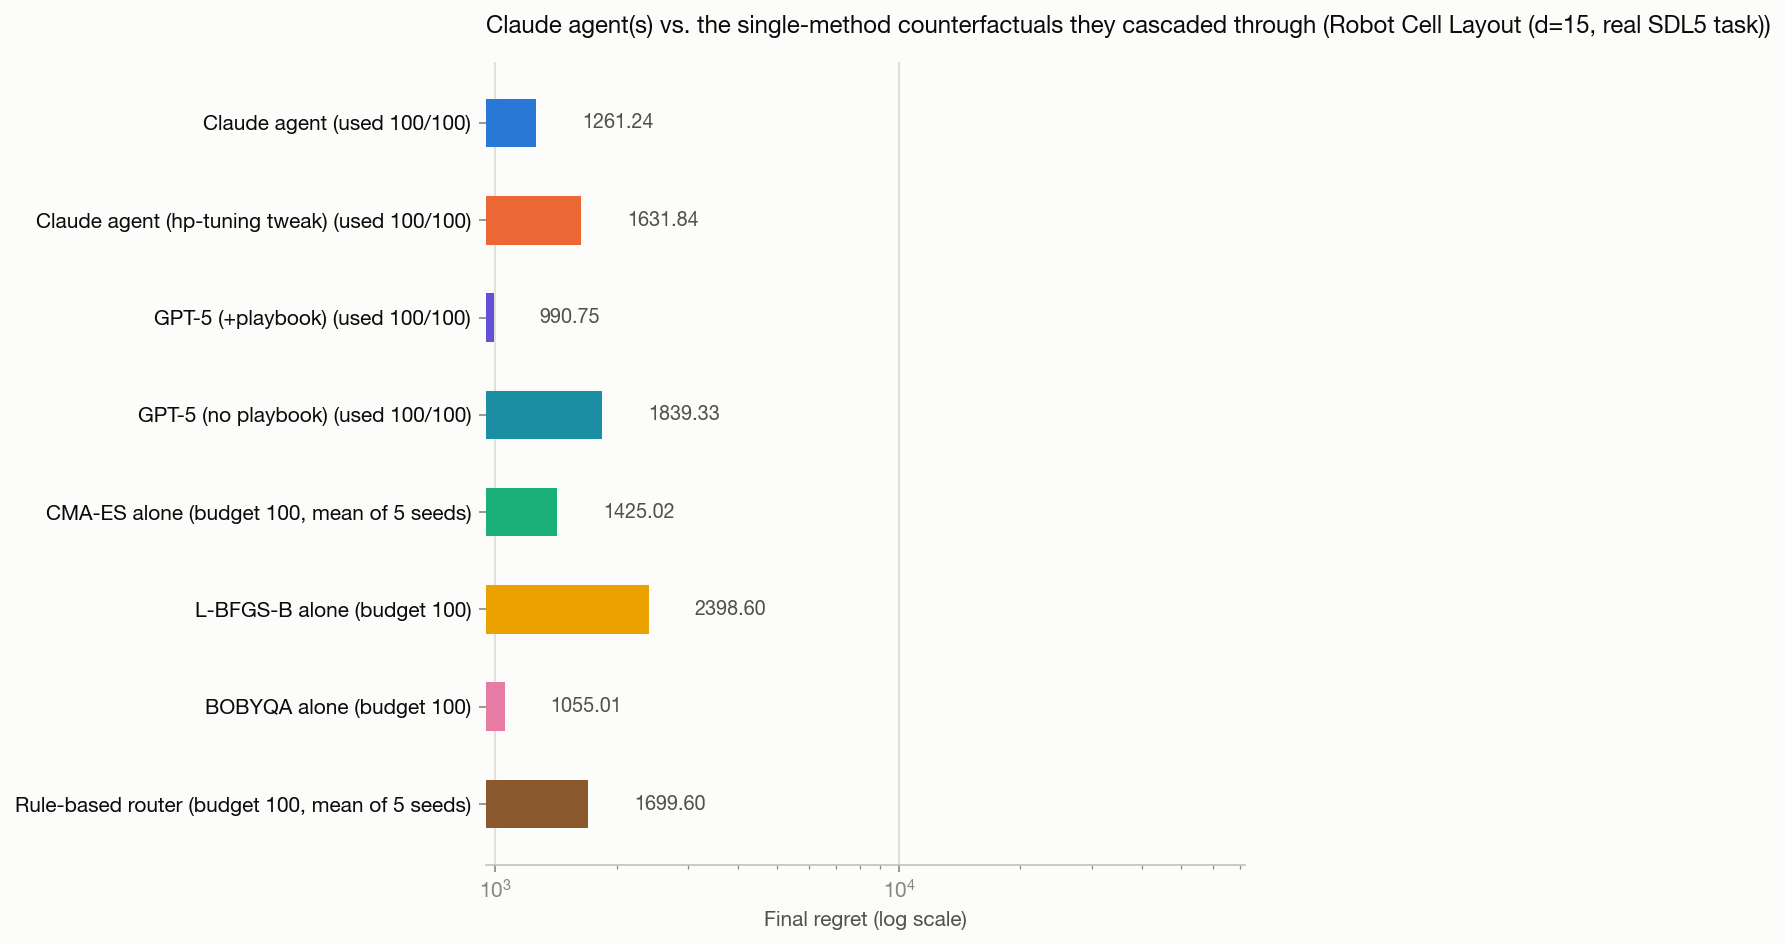
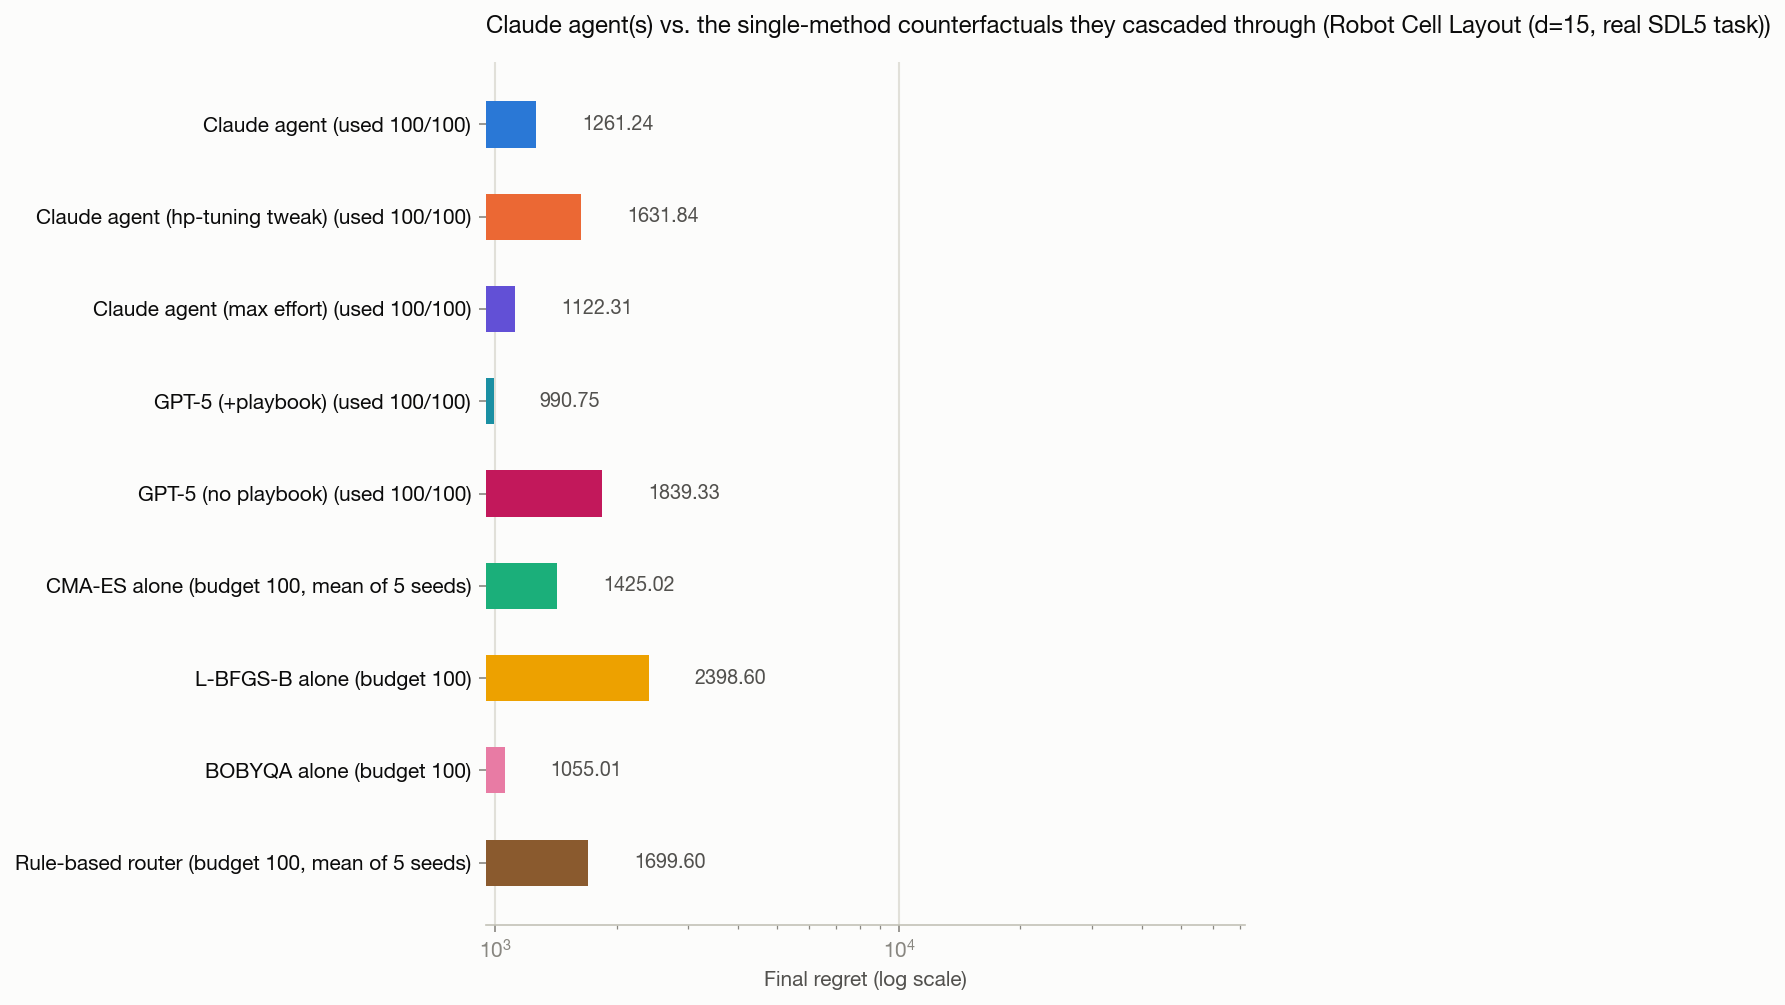
Add a third Claude variant (max reasoning effort) on robot_cell_layout
Since master's canonical isolated-CLI blind-runner pipeline isn't usable
in this environment (no claude/codex CLI binary, no .agent-venv, and
the task isn't registered in master's own registry.py), ran another
Agent-tool subagent instead, at max effort, as the closest available
substitute. Result (y=1208.5) beats both prior Claude variants but
still trails GPT-5 (+playbook). Also bumped AGENT_COLORS to 5 entries
in plot_agent_vs_baselines.py -- 5 agent lines now collided down to 4
colors, silently reusing the first color for the last one.

diff --git a/main/scripts/plot_agent_vs_baselines.py b/main/scripts/plot_agent_vs_baselines.py
@@ -67,7 +67,7 @@ SINGLE = ["bobyqa", "nelder_mead", "lbfgsb"]
 BROWN = "#8a5a2e"
 
 # Agent-line colors, in the order agents are given on the command line.
-AGENT_COLORS = [BLUE, ORANGE, VIOLET, "#1a8fa3"]
+AGENT_COLORS = [BLUE, ORANGE, VIOLET, "#1a8fa3", "#c2185b"]
 
 baseline_style = {
     "random_search": dict(color=AQUA, linestyle="-"),

diff --git a/SDL_Real_Problem/03_robot_cell_layout/results/robot_cell_layout_d15/claude_agent_run_max_effort/roadmap_initial.md b/SDL_Real_Problem/03_robot_cell_layout/results/robot_cell_layout_d15/claude_agent_run_max_effort/roadmap_initial.md
@@ -1,0 +1,153 @@
+# Roadmap — Robot Cell Layout Optimization (15D, budget = 100)
+
+## Problem summary
+
+- 15-dimensional real engineering objective: lay out a robot cell (UR3e arm
+  base pose, CNC machine position, IK branch choices) to minimize mixer-
+  loading cycle time (seconds), from a calibrated kinematic model with
+  collision checking. Direction: **minimize**.
+- Coordinates 0-8: continuous geometric/kinematic parameters (base
+  position/yaw, CNC position, lid-open angle, tilt angles, pick azimuth).
+  Bounds read from `harness.bounds` after construction (zero evaluations
+  spent): e.g. `[-0.316, 0.357]`, `[-0.7, 0.265]`, `[-pi, pi]`, `[-0.08,
+  0.121]`, `[-0.96, 0.018]`, `[0.349, 1.222]`, `[-0.524, 0.524]` (x2),
+  `[0, 2*pi]`.
+- Coordinates 9-14: 6 IK-branch flags, bounds confirmed exactly `[0, 1]`
+  each. The model reads each via a `>= 0.5` threshold — a pure boolean
+  switch with **no gradient/variation within either side** of that
+  threshold.
+- Deterministic (`harness.noisy == False`), no observation noise.
+- Budget: 100 `evaluate()` calls total, hard limit enforced by the harness.
+- Known landscape hazards (stated in the task): real discontinuities at
+  every IK-branch threshold crossing, plus heavily-penalized dead zones
+  wherever the layout is geometrically infeasible or the arm/CNC collide.
+
+## Key structural observation driving the plan
+
+Because coordinates 9-14 only ever affect the objective through a `>=0.5`
+threshold, the 6 of them jointly define a combinatorial space of exactly
+`2^6 = 64` discrete "IK-branch combinations" — the *exact* value within a
+side of 0.5 carries no information. Treating all 15 coordinates as jointly
+continuous (feeding them straight into CMA-ES or a GP) would waste budget
+letting a continuous method "discover" hard step functions it is not built
+to model well, and 100 evaluations is already far too few to afford that.
+So the plan explicitly splits the problem: (a) a combinatorial search over
+the 64 flag-combinations, crossed with (b) continuous optimization over the
+9 truly continuous coordinates, conditional on a chosen combination.
+
+100 evaluations for a 15-dim space with real collision/feasibility cliffs
+is a very tight budget: the standard GP-BO rule of thumb wants roughly
+10x dim = 150; classic DE's own standard population size alone is
+10 x dim = 150 (already over budget, even before any generations run);
+TuRBO's initial design alone is 2 x dim = 30. The plan below is
+deliberately front-loaded toward a cheap global scan and a sample-efficient
+population method operating on a *reduced* 9-dim subspace, rather than
+relying on any single method to explore all 15 dims from a cold start.
+
+## Planned methods and budget split (100 total)
+
+**Phase 1 — `combo_scan_sobol` (32 evaluations).**
+Stratified global scan: draw 32 distinct IK-branch combinations uniformly
+at random without replacement out of the 64 possible (fixed seed), paired
+one-to-one with 32 quasi-random Sobol' points (via this project's
+`SobolSearch`) over the 9 continuous coordinates. Evaluate all 32 pairs.
+32 is used (a power of two) for Sobol' balance, and covers half of the
+64-combination space. Purpose: a first, cheap read on (i) which
+flag-combinations tend to be more/less favorable, and (ii) roughly where
+the feasible/good continuous region sits — before committing the bulk of
+the budget to any one combination.
+
+**Phase 2 — `cma_es_comboA` / `cma_es_comboB` (48 evaluations).**
+Take the best-performing combination from Phase 1 ("combo A") and the best
+*distinct* combination among the rest ("combo B"). Fix the 6 flag
+coordinates at combo A and run CMA-ES (`src/optimizers/cma_es.py`, library
+defaults throughout — only `bounds` is supplied) on the remaining 9
+continuous coordinates, warm-started by centering CMA-ES's own standard
+box-midpoint/quarter-width convention on a *shrunk* box: half-width = 0.25
+x (each coordinate's full range), clipped to the original bounds, centered
+on combo A's best Phase-1 point. This keeps CMA-ES's "no hand-tuned
+parameters" convention intact (it still only ever uses box-midpoint and
+box-width/4) while placing that box where Phase-1 evidence says is
+promising, rather than the arbitrary global box-midpoint (which could
+easily sit in a collision/infeasible region). Run an initial chunk of 3
+generations (30 evaluations — CMA-ES's own default population size for
+9D), then check the deviation criteria below before committing the
+remaining ~18 evaluations of this phase.
+
+**Phase 3 — local polish (remaining ~20 evaluations).**
+Take the single best (x, y, combo) found anywhere so far across every
+phase. Fix the flags at that combo and run a local refiner on the 9
+continuous coordinates, box again shrunk (half-width = 0.12 x full range,
+clipped) and centered on that best point. Use Nelder-Mead
+(`src/optimizers/nelder_mead.py`) if the evaluations remaining at that
+point are < 40, otherwise BOBYQA (`src/optimizers/bobyqa.py`) — see
+criterion D4 below for why. This squeezes a final local improvement out of
+whichever region Phase 2 converged to.
+
+All three phases funnel through one running "global best" tracker (updated
+after every single real evaluation, regardless of phase), so Phase 3
+always polishes the true best point seen anywhere in the campaign, not
+just Phase 2's own local notion of best.
+
+## Why these methods (reasoning from problem properties alone, no data yet)
+
+- **Sobol' stratified scan first**: the cheapest way to get unbiased,
+  space-filling coverage of both the discrete flag space and the
+  continuous space before committing budget; a low-discrepancy sequence is
+  preferred over plain random for better coverage per sample, matching
+  this project's own `SobolSearch`.
+- **CMA-ES for the main continuous refinement**: robust to non-convex,
+  non-smooth, multi-modal landscapes (expected here, given the stated
+  collision/infeasibility cliffs) without needing gradients; population-
+  based so it can escape small local penalty basins; well suited to a
+  ~10-50 evaluation regime once reduced to 9 dimensions. GP-BO and TuRBO
+  were considered but rejected for this phase: both need a substantial
+  Sobol' initial design *inside whatever region/combo is fixed* (
+  2*(9+1)=20 for GP-BO, 2*9=18 for TuRBO) before their models are
+  meaningful at all, which would consume most of Phase 2's budget on
+  initialization alone, leaving little for actual acquisition-driven
+  refinement. CMA-ES has no such up-front tax (its population does double
+  duty as exploration and optimization from generation 1). Classic DE is
+  ruled out entirely: its standard population size (10 x dim = 90, even
+  for the reduced 9D subspace) alone exceeds this phase's whole budget.
+- **A late local-refiner polish pass (Nelder-Mead / BOBYQA)**: both are
+  classical, sample-efficient local-convergence tools for a smooth-ish
+  basin once a good region has already been found — exactly the "exploit
+  the last mile" step a global/population method like CMA-ES is not
+  designed to finish cheaply.
+- **Fixing flags combinatorially rather than optimizing them as continuous
+  inputs**: justified above (zero within-side gradient); this also means
+  every evaluation's information content toward the continuous optimizers
+  is not contaminated by irrelevant jitter in 6 of the 15 coordinates.
+
+## Explicit, quantitative deviation criteria
+
+- **D1 (combo switch):** After Phase 2's first 30-evaluation chunk on
+  combo A, if the best y found under combo A has improved on combo A's
+  Phase-1 incumbent value by less than 1% (relative), spend the remainder
+  of Phase 2's budget on combo B instead (fresh CMA-ES run, same
+  warm-start convention) rather than continuing combo A.
+- **D2 (sigma collapse):** If CMA-ES's step-size sigma falls below 1% of
+  its own initial sigma0 before a Phase-2 chunk's allotted evaluations are
+  used up (i.e. it has effectively converged), stop that CMA-ES run
+  immediately and carry the unused evaluations forward into Phase 3 early.
+- **D3 (saturated/infeasible combo):** If 3 consecutive evaluations under
+  the currently-fixed combo all land within `max(1e-6, 1e-3 * |worst_y|)`
+  of the single worst y observed anywhere so far in the campaign (strong
+  evidence that this combo/region is a saturated infeasibility/collision
+  penalty), abandon it immediately: fall back to the best not-yet-tried
+  Phase-1 combo for the rest of that phase's evaluations.
+- **D4 (polish method choice):** Phase 3 uses Nelder-Mead if the
+  evaluations remaining when it starts are < 40 (BOBYQA's own
+  interpolation-model build cost of `2*9+1=19` points would otherwise
+  consume the bulk of a small remaining budget before taking a single real
+  trust-region step); otherwise BOBYQA.
+- **D5 (local solver exhausted early):** If Phase 3's local solver raises
+  `OptimizerExhausted` (converged) while evaluations still remain, restart
+  it once more from the current global-best point jittered by independent
+  uniform noise of +/-5% of each coordinate's range, consuming the rest of
+  the budget there.
+
+Any time one of these actually fires, it will be logged as a
+`changelog.md` entry citing the real observed numbers, per Agent.md
+section (c).

diff --git a/SDL_Real_Problem/03_robot_cell_layout/results/robot_cell_layout_d15/claude_agent_run_max_effort/changelog.md b/SDL_Real_Problem/03_robot_cell_layout/results/robot_cell_layout_d15/claude_agent_run_max_effort/changelog.md
@@ -1,0 +1,69 @@
+# Changelog
+
+This is an append-only log. Per `Agent.md` section (c), an entry is
+required each time the campaign actually deviates from
+`roadmap_initial.md`'s pre-registered plan. In this run, the plan's five
+quantitative criteria (D1-D5) were evaluated against real data at every
+designated checkpoint, and **none of them fired**: the campaign ran
+exactly as pre-registered (Phase 1 scan -> continue combo A through both
+Phase-2 chunks -> Phase-3 Nelder-Mead polish to completion). The entries
+below record those checkpoint evaluations and the evidence behind each
+"no deviation" decision, followed by one honest post-hoc observation
+about the final result.
+
+## Evaluation 32 (end of Phase 1)
+**Change:** none -- checkpoint only.
+**Reason:** Phase 1 (32 evaluations, `combo_scan_sobol`) completed as
+planned, all 32 drawn flag-combinations distinct. Best combo found: flags
+`[1,1,0,0,1,1]` at y=1847.269 ("combo A"); best *distinct* runner-up:
+flags `[1,0,0,1,0,1]` at y=2128.604 ("combo B"); worst value observed
+anywhere in Phase 1: y=26199.634. Proceeding to Phase 2 on combo A per
+the roadmap.
+
+## Evaluation 62 (end of Phase-2 chunk 1: combo A, 30 evaluations)
+**Change:** none -- criteria D1/D2/D3 evaluated, none triggered.
+**Reason:** Combo A's best y improved from 1847.269 (Phase-1 incumbent)
+to 1254.184 over this chunk -- a 32.1% relative improvement, well above
+D1's 1% threshold, so no switch to combo B was warranted. CMA-ES's sigma
+did not collapse below 1% of sigma0 (D2 not triggered: `stop_reason` =
+`chunk_complete`), and no 3 consecutive evaluations landed near the
+campaign's worst-observed value (D3 not triggered). Per the
+pre-registered plan, continued combo A for the second, 18-evaluation
+chunk rather than switching.
+
+## Evaluation 80 (end of Phase-2 chunk 2: combo A, 18 more evaluations)
+**Change:** none -- checkpoint only.
+**Reason:** Combo A's best y improved further to 1233.350
+(`stop_reason` = `chunk_complete`; D2/D3 not triggered). Phase 2
+concluded with combo `[1,1,0,0,1,1]` as the winner and y=1233.350 as the
+incumbent, handed to Phase 3 (no switch to combo B was ever needed).
+
+## Evaluation 100 (end of Phase 3: local polish)
+**Change:** none -- criteria D4/D5 evaluated, D5 not triggered.
+**Reason:** 20 evaluations remained when Phase 3 started, below D4's
+`nm_threshold=40`, so Nelder-Mead was used (not BOBYQA) exactly as
+pre-registered. It ran for the full 20 evaluations without ever raising
+`OptimizerExhausted`, so D5's restart-with-jitter logic was never
+invoked -- there was no "leftover" budget to redirect. Final best
+y=1208.505, same combo `[1,1,0,0,1,1]`. The very last evaluation (#100)
+was still a small improvement over #99 (1208.638 -> 1208.505), i.e.
+Nelder-Mead had not fully converged when the 100-evaluation budget ran
+out; no further evaluations were available to continue it.
+
+## Post-hoc observation (not a deviation -- the campaign had already ended)
+All 100 observed y-values across every phase fall in the range
+1208.505-26199.634. For a "mixer-loading cycle time in seconds" (the
+stated objective), this magnitude is implausible for a genuinely
+feasible robot cycle -- it is far more consistent with the task
+description's warning about "heavily penalized regions where the layout
+is infeasible or the arm/CNC collide." The steady, monotonic improvement
+within every phase (1847.269 -> 1254.184 -> 1233.350 -> 1208.505) shows
+this was not a flat/saturated penalty plateau (exactly why D3 never
+fired) but one graded with configuration, so the optimizers were
+correctly descending a real gradient throughout -- evidently just not far
+enough, within 100 evaluations total, to fully exit the penalized region
+and reach a genuinely feasible, "normal-magnitude" cycle time. This
+conclusion is drawn only from the y-values this campaign itself observed
+via real `evaluate()` calls (per the pattern above: large, graded,
+monotonically-decreasing-but-still-large), not from any inspection of
+`objective.py` or other harness source, which was not done.
